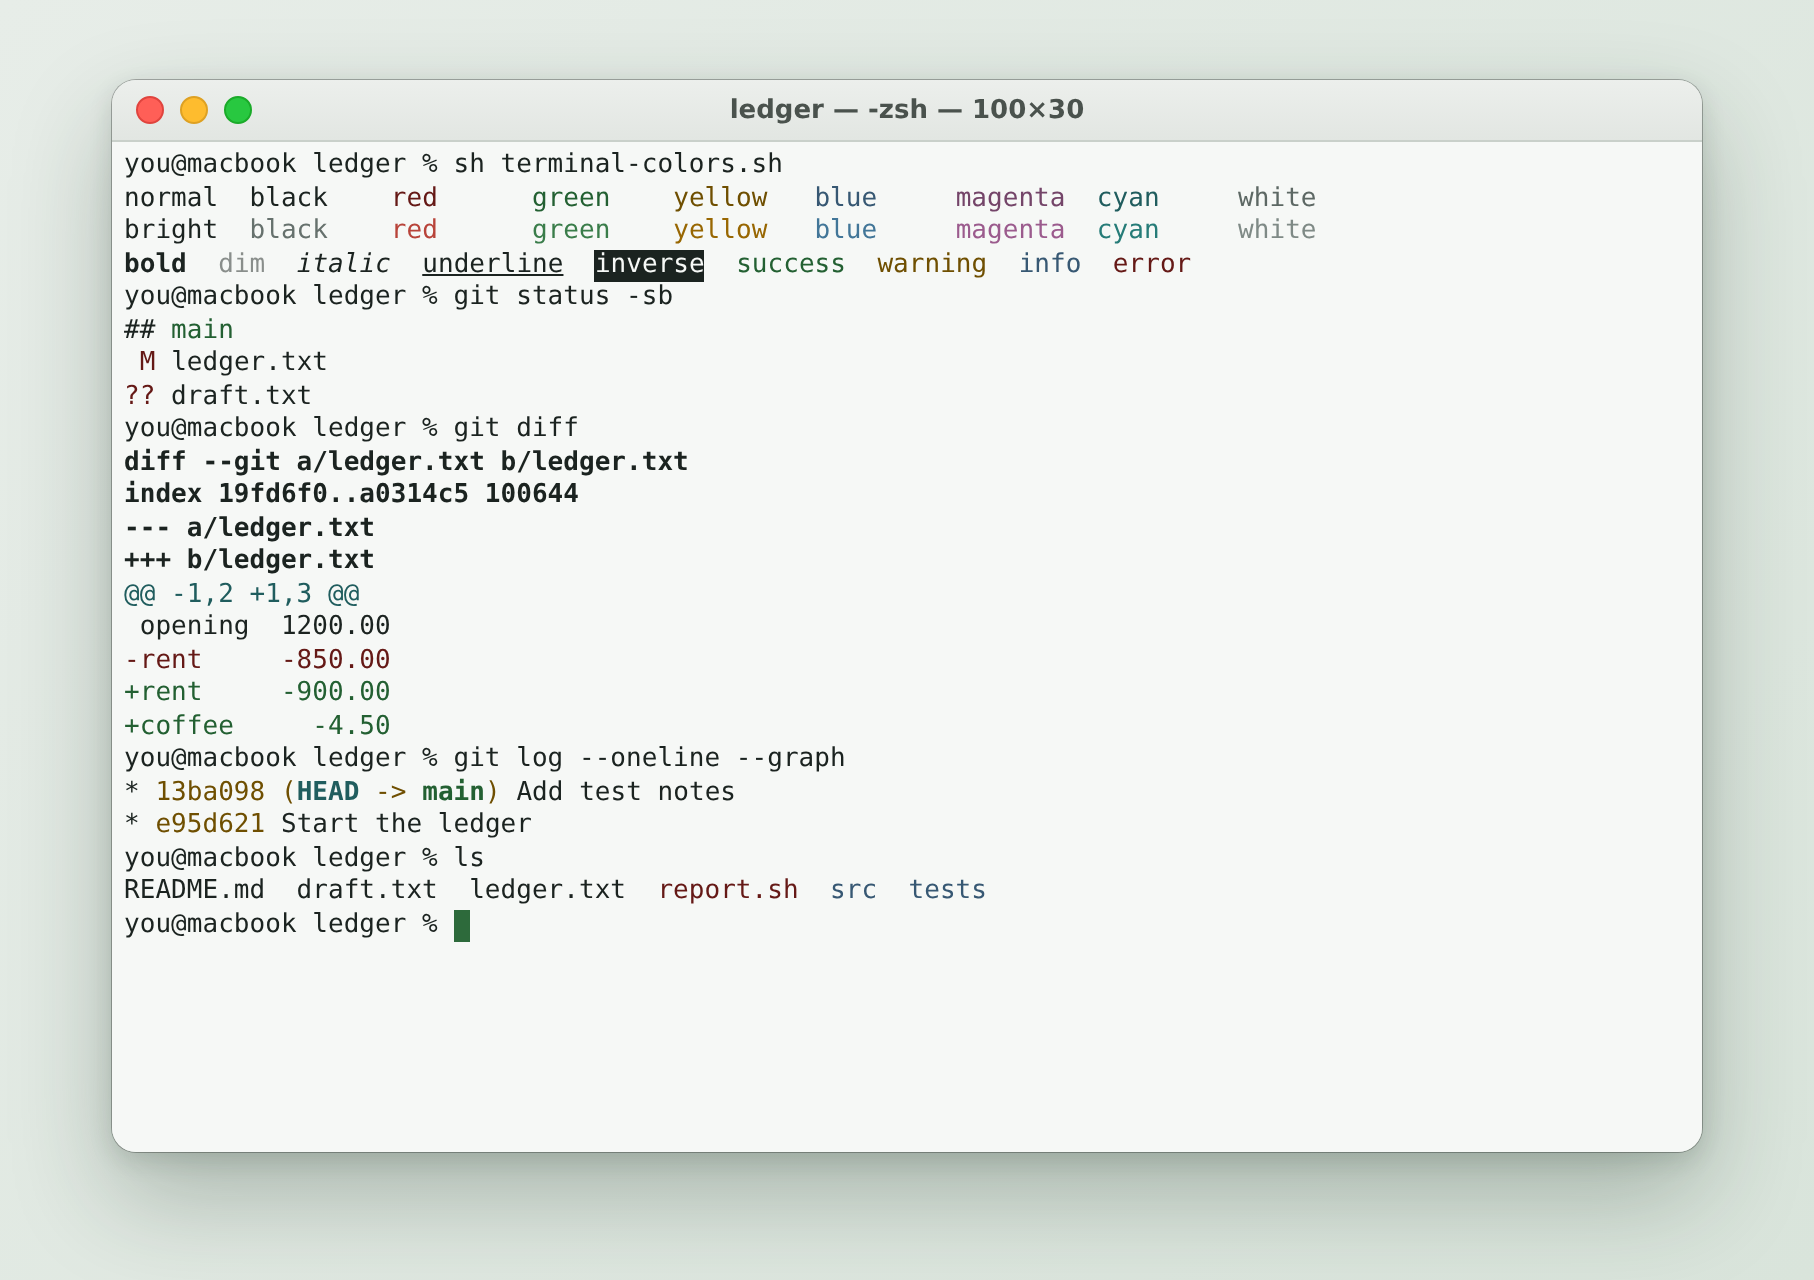
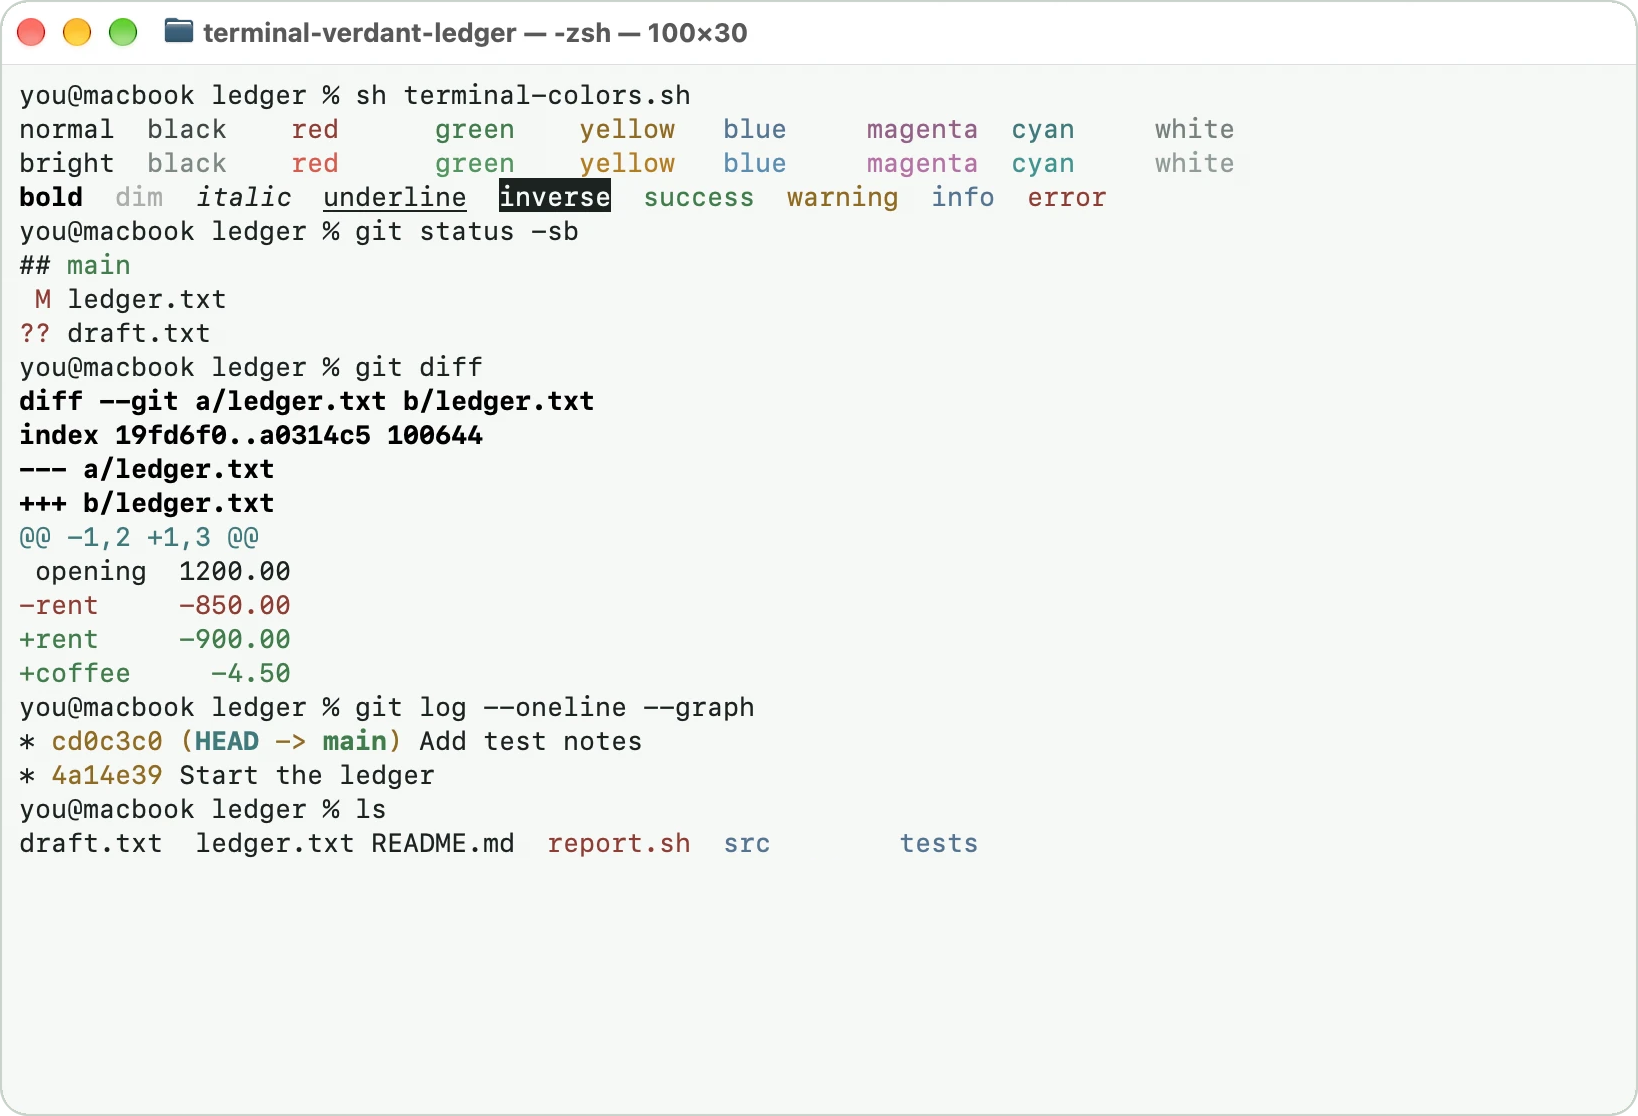
Use a real Apple Terminal screenshot as the preview
Replace the xterm.js render with a screenshot of Apple Terminal on
macOS running scripts/demo.sh with the current palette. The viewer's
own shell prompt below the demo is blanked and the desktop around the
window is cropped away.

Record the visual check of the current palette, and document
DEMO_USER and DEMO_HOST for screenshots.

Claude-Session: https://claude.ai/code/session_01GhVzsJbztFTXHYm4fyULN6

diff --git a/docs/APPLE-TERMINAL.md b/docs/APPLE-TERMINAL.md
@@ -103,6 +103,12 @@ GitHub Actions runs the tests on Ubuntu, and on macOS lints the plist with `plut
 sh scripts/demo.sh
 ```
 
+The prompt shows your user and computer names. Set `DEMO_USER` and `DEMO_HOST` to replace them, for example before a screenshot:
+
+```sh
+DEMO_USER=you DEMO_HOST=macbook sh scripts/demo.sh
+```
+
 To capture a window screenshot on macOS, press **Shift-Command-4**, then **Space**, and click the Terminal window.
 
 ### ANSI color swatches
@@ -125,7 +131,7 @@ printf '\e[32mSuccess\e[0m  \e[33mWarning\e[0m  \e[34mInfo\e[0m  \e[31mError\e[0
 
 ## Visual validation results
 
-The profile was imported successfully into Apple Terminal and checked in a zsh window.
+The profile was imported into Apple Terminal and checked in a zsh window.
 
 - The 16 ANSI colors were distinguishable in the provided swatches.
 - Foreground and background appeared readable.
@@ -133,7 +139,11 @@ The profile was imported successfully into Apple Terminal and checked in a zsh w
 - Success, warning, information, and error colors were distinguishable.
 - The green cursor was clearly visible.
 
-These checks were made with the earlier palette, before the normal and bright colors were separated. The screenshot that prompted that change showed the profile importing and rendering correctly; repeat the smoke test with the current palette.
+The current palette was checked again with `scripts/demo.sh`, which produced the README screenshot:
+
+- Every normal color is visibly darker than its bright variant, including yellow, cyan, and white.
+- Bright white is the lightest gray.
+- Solid areas in the screenshot match the profile: the background, the cursor block, and the `inverse` background measure within one RGB step of `#F6F8F6`, `#2D6A3B`, and `#1B2320`.
 
 The validated configuration used SF Mono Terminal Regular, 13 pt. Menlo Regular, 13 pt, was also found readable, but is not required.
 

diff --git a/README.md b/README.md
@@ -6,9 +6,9 @@ A light Apple Terminal profile adapted from the [Verdant Ledger Light theme for 
 
 ## Preview
 
-![Verdant Ledger Light in a macOS-style Terminal window, showing the 16 ANSI colors, text styles, git status, git diff, git log, and a colored directory listing](images/terminal-preview.png)
+![Verdant Ledger Light in Apple Terminal on macOS, showing the 16 ANSI colors, text styles, git status, git diff, git log, and a colored directory listing](images/terminal-preview.png)
 
-The preview shows the real output of [`scripts/demo.sh`](scripts/demo.sh), rendered with the profile's colors at 100 × 30 in DejaVu Sans Mono (the typeface Menlo is based on). Run the same script in Apple Terminal to see the profile with your own font:
+A screenshot of Apple Terminal on macOS running [`scripts/demo.sh`](scripts/demo.sh) at 100 × 30. Run the same script to try the profile with your own font:
 
 ```sh
 sh scripts/demo.sh
